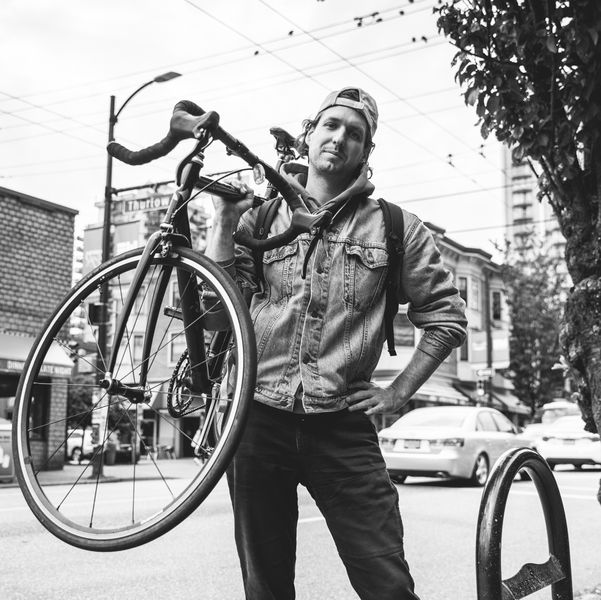
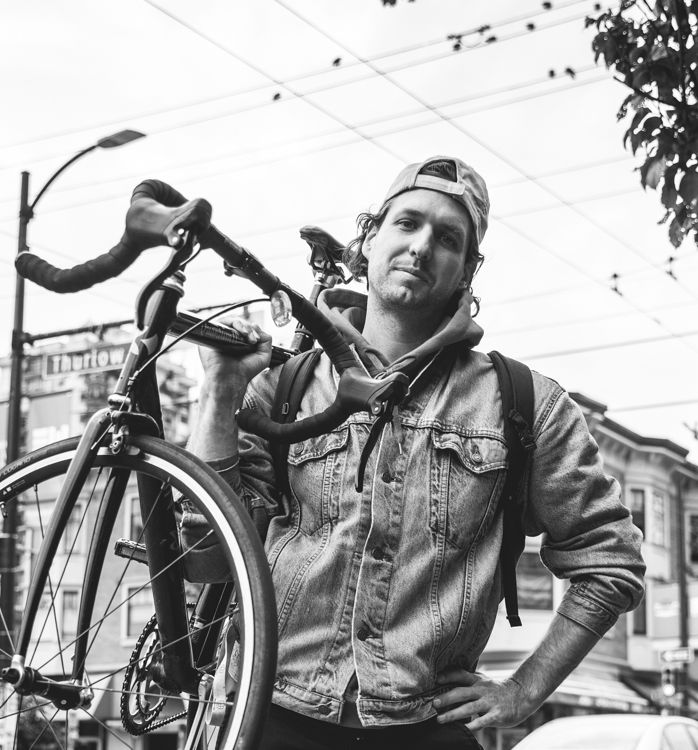
better profile pic for mobile

diff --git a/sass/_layout.scss b/sass/_layout.scss
@@ -46,7 +46,8 @@
 
   @include respond(phone) { // width LESS THAN 600 px?
     padding-top: 3rem;
-    background-image:  linear-gradient(to right bottom, var(--color-primary), var(--color-primary-light)), url(../resources/phone/matt-profile-small.jpg);
+    background:  linear-gradient(to right bottom, var(--color-primary), var(--color-primary-light)), url(../resources/phone/matt-profile-small.jpg) center;
+    background-size: cover;
   }
 
   &__name {
@@ -179,7 +180,6 @@
   }
   
   &__side {
-    // background-color: var(--color-primary-light);
     border-radius: 2rem;
     height: 50rem;
     transition: all 1s ease;
@@ -203,7 +203,6 @@
       background-color: var(--color-primary-light);
     }
     &--back {
-      // background-image: linear-gradient(to right bottom, var(--color-primary-light), var(--color-primary-dark));
       background-color: var(--color-primary-light);
       transform: rotateY(180deg);
       color: var(--color-grey-dark-1);

diff --git a/css/style.comp.css b/css/style.comp.css
@@ -128,7 +128,8 @@ h1 {
   @media only screen and (max-width: 37.5em) {
     .header {
       padding-top: 3rem;
-      background-image: linear-gradient(to right bottom, var(--color-primary), var(--color-primary-light)), url(../resources/phone/matt-profile-small.jpg); } }
+      background: linear-gradient(to right bottom, var(--color-primary), var(--color-primary-light)), url(../resources/phone/matt-profile-small.jpg) center;
+      background-size: cover; } }
   .header__name {
     font-size: 6rem;
     color: var(--color-grey-dark-1);

diff --git a/css/style.css b/css/style.css
@@ -128,7 +128,8 @@ h1 {
   @media only screen and (max-width: 37.5em) {
     .header {
       padding-top: 3rem;
-      background-image: linear-gradient(to right bottom, var(--color-primary), var(--color-primary-light)), url(../resources/phone/matt-profile-small.jpg); } }
+      background: linear-gradient(to right bottom, var(--color-primary), var(--color-primary-light)), url(../resources/phone/matt-profile-small.jpg) center;
+      background-size: cover; } }
   .header__name {
     font-size: 6rem;
     color: var(--color-grey-dark-1);

diff --git a/index.html b/index.html
@@ -87,7 +87,7 @@
           </div>
         </div>
         <!-- PROFESSIONAL EXPERIENCE -->
-        <h1>My professional experience</h1>
+        <h1>My professional development experience</h1>
         <!-- WOODSEER -->
         <div class="card">
           <div class="card__side card__side--front">
